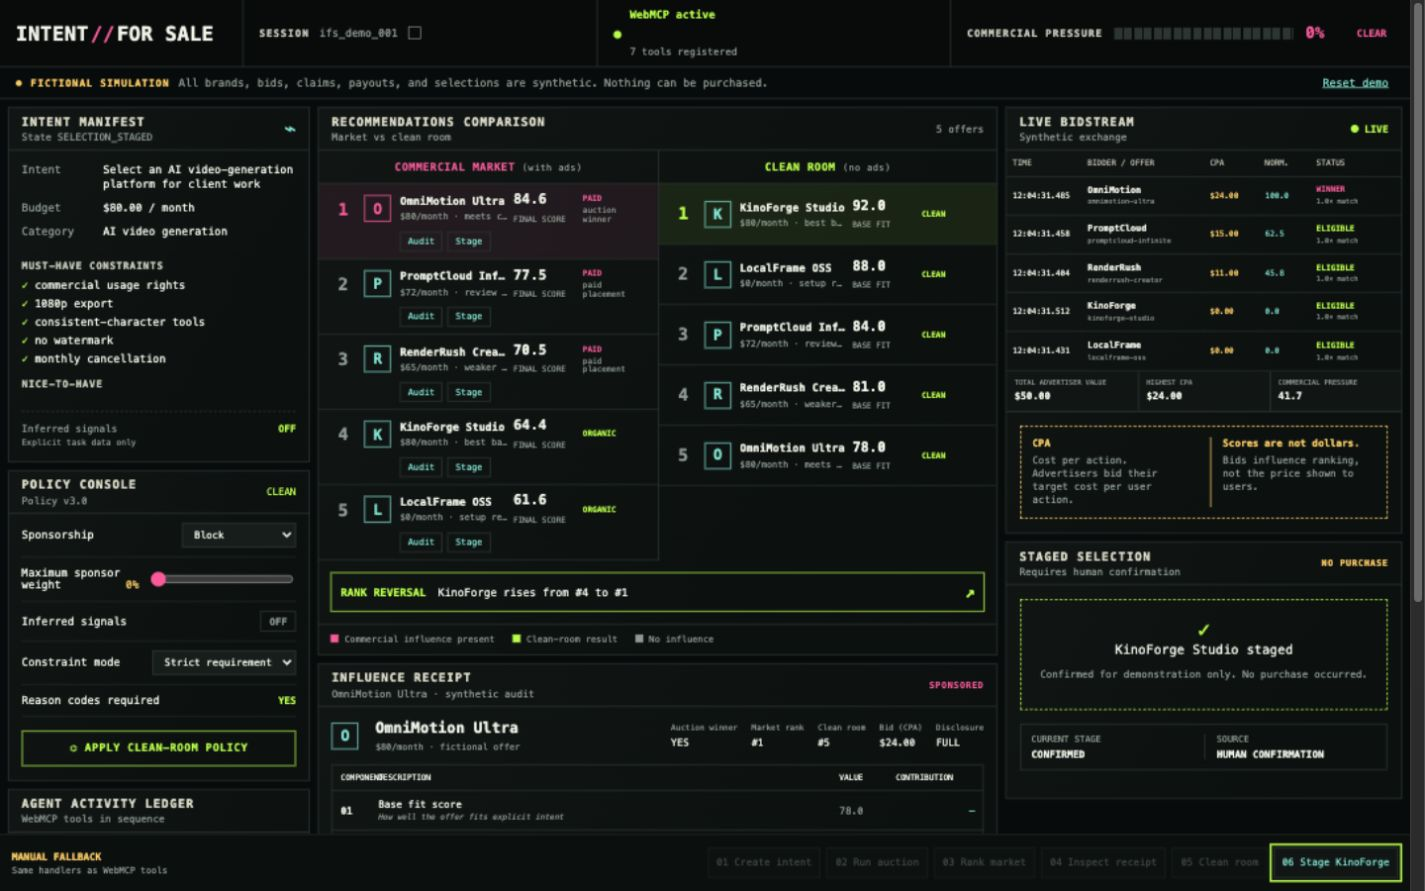
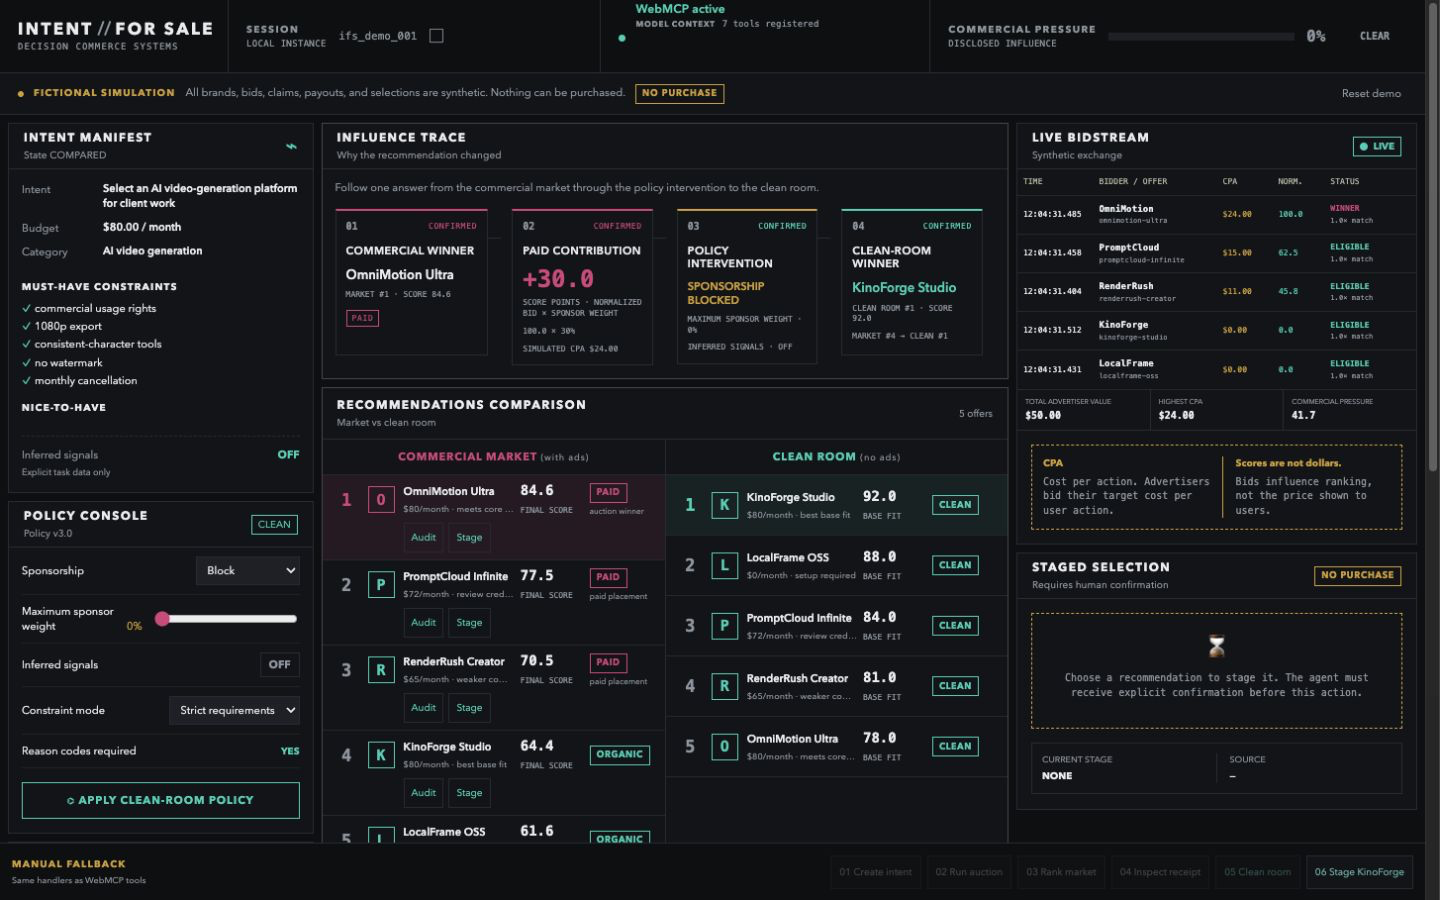
Refresh release visual evidence

diff --git a/docs/deployed-verification.md b/docs/deployed-verification.md
@@ -6,7 +6,26 @@ browser fallback.
 
 Target: <https://cjbooger.github.io/intent-for-sale-webmcp/>
 
-The verified release was the public `main` build at commit `a6fa300`.
+Native WebMCP discovery and invocation, the manual fallback flow, and the visual
+captures were revalidated against the public `main` build at commit
+`b959728d8121803e239dd08a510ead2b4e88d582` on September 1, 2026 PDT.
+
+## Visual capture provenance
+
+Four release screenshots were captured from the clean public URL in a WebMCP-capable
+browser host after the host enumerated exactly seven page-defined tools. Two fresh documents
+each completed the seven calls in order and recorded empty browser error and warning
+logs.
+
+| Asset | State | Exact image size |
+| --- | --- | --- |
+| [`verified-dashboard-1280x720.png`](design/verified-dashboard-1280x720.png) | `MARKET_RANKED/v3` | 1280×720 PNG |
+| [`evidence-influence-receipt-v4-1440x900.png`](design/evidence-influence-receipt-v4-1440x900.png) | `AUDITED/v4` | 1440×900 PNG |
+| [`verified-dashboard-1440x900.png`](design/verified-dashboard-1440x900.png) | `COMPARED/v6` | 1440×900 PNG |
+| [`evidence-ledger-and-selection-v7-1440x900.png`](design/evidence-ledger-and-selection-v7-1440x900.png) | `SELECTION_STAGED/v7` | 1440×900 PNG |
+
+These captures document the rendered deployed surface for this runtime release; they
+do not replace the discovery, invocation, source, or fallback boundaries below.
 
 ## Proof matrix
 
@@ -15,10 +34,10 @@ The verified release was the public `main` build at commit `a6fa300`.
 | Public deployment | Proven | The HTTPS page returned `200` from GitHub Pages. The HTML referenced the deployed hashed JavaScript and CSS assets; each returned `200`. |
 | Public artifact content | Proven | The deployed JavaScript contains the seven canonical tool names and the `document.modelContext`/`registerTool` registration path. |
 | Registration contract and handlers | Simulated/unit-tested | The repository's automated suite passes 22 tests, including exactly-seven registration, lifecycle cleanup, schemas, state ordering, and shared handlers. These tests do not prove a deployed host can enumerate or call the tools. |
-| Native WebMCP discovery and invocation | Proven | Two independent fresh WebMCP-capable browser-host sessions, marked `?proof=session-1` and `?proof=session-2`, each visibly reported `WebMCP active` and `7 tools registered`. The host enumerated exactly the seven tools listed below, and both sessions invoked all seven in order. |
+| Native WebMCP discovery and invocation | Proven | Two independent fresh WebMCP-capable browser documents at the clean public URL each visibly reported `WebMCP active` and `7 tools registered`. The host enumerated exactly the seven tools listed below, and both documents invoked all seven in order. |
 | Unsupported-browser detection | Proven | A fresh Chrome tab displayed `WebMCP unavailable — manual fallback enabled` and exposed no WebMCP tab capability. |
 | Manual fallback | Proven | The complete sequence finished in Chrome: intent → auction → market ranking → influence receipt → clean-room policy → comparison → confirmed fictional staged selection. Final state was `SELECTION_STAGED`; the page stated that no purchase occurred. |
-| Console | Proven for these runs | Error and warning logs were empty in both native WebMCP sessions and the Chrome fallback run. This is not a claim about every browser host. |
+| Console | Proven for these runs | Error and warning logs were empty in both native WebMCP documents. The automated Chromium regression also asserts clean warning/error logs during the fallback flow. This is not a claim about every browser host. |
 | Network/assets | Partially proven | The observed deployed asset inventory consisted of one JavaScript file and one stylesheet. This is not a full HAR or universal no-network claim. |
 
 ## Native WebMCP proof
@@ -33,7 +52,7 @@ The host enumerated exactly these seven registered tools from the deployed origi
 6. `compare_market_to_clean_room`
 7. `stage_demo_selection`
 
-Session 1 called each tool individually in that order. The observed state/version
+Fresh document 1 called each tool individually in that order. The observed state/version
 sequence was:
 
 ```text
@@ -46,7 +65,7 @@ COMPARED/6
 SELECTION_STAGED/7
 ```
 
-Session 2 repeated the same seven calls in a second fresh document and produced the
+Fresh document 2 repeated the same seven calls in a second fresh document and produced the
 same states and versions. Its live tool description also exposed all seven input
 schemas from the deployed origin.
 

diff --git a/docs/verification.md b/docs/verification.md
@@ -29,8 +29,9 @@ Current verified baseline (September 1, 2026):
 - TypeScript project check: passed.
 - Vitest: 4 files, 22 tests passed.
 - Vite production build: passed.
-- Playwright Chromium flow: 1 test passed, including two deterministic runs and the
-  horizontal-overflow assertion.
+- Playwright Chromium: 8 tests passed, including the deterministic full flow, dialog
+  focus containment and restoration, reduced motion, clean console output, and zero
+  horizontal overflow across six release viewports.
 - npm dependency audit: 0 vulnerabilities.
 
 ## Source-level assertions
@@ -63,6 +64,21 @@ the complete manual flow.
 
 ## Visual proof
 
-The repository includes verified local captures at 1280x720 and 1440x900 in
-`docs/design/`. They contain only fictional demo data. Release screenshots should be
-regenerated after any visual pass and tied to the exact tested commit.
+The repository includes release captures from the deployed app commit
+`b959728d8121803e239dd08a510ead2b4e88d582`, generated September 1, 2026 PDT in a
+WebMCP-capable browser host. Two fresh documents at the clean public URL each
+enumerated the same seven tools and completed the seven calls in order; recorded
+browser error and warning logs were empty.
+
+| Asset | App state | Exact image size | Visible proof |
+| --- | --- | --- | --- |
+| [`verified-dashboard-1280x720.png`](design/verified-dashboard-1280x720.png) | `MARKET_RANKED/v3` | 1280×720 PNG | WebMCP active, five fictional bids, and OmniMotion at `84.6/#1`. |
+| [`evidence-influence-receipt-v4-1440x900.png`](design/evidence-influence-receipt-v4-1440x900.png) | `AUDITED/v4` | 1440×900 PNG | `54.6 + 30.0 = 84.6`, market `#1`, clean-room `#5`, and simulated `$24` CPA. |
+| [`verified-dashboard-1440x900.png`](design/verified-dashboard-1440x900.png) | `COMPARED/v6` | 1440×900 PNG | Sponsor policy blocked and KinoForge reversed from market `#4` to clean-room `#1` at `92.0`. |
+| [`evidence-ledger-and-selection-v7-1440x900.png`](design/evidence-ledger-and-selection-v7-1440x900.png) | `SELECTION_STAGED/v7` | 1440×900 PNG | All seven ledger entries, the staged KinoForge result, and `NO PURCHASE`. |
+
+The captures contain only deterministic fictional fixture data and no browser,
+account, user, or unrelated-project information. They document the rendered release
+surface; they do not prove behavior in every WebMCP host. Regenerate them after any
+visual or behavioral deployment and bind final submission claims to the frozen
+release candidate.

diff --git a/README.md b/README.md
@@ -9,6 +9,10 @@ shows what the recommendation would have been without sponsorship.
 
 ![Verified dashboard showing a commercial ranking beside a clean-room result](docs/design/verified-dashboard-1440x900.png)
 
+Release evidence: [commercial market at 1280×720](docs/design/verified-dashboard-1280x720.png),
+[Influence Receipt at 1440×900](docs/design/evidence-influence-receipt-v4-1440x900.png),
+and [seven-tool ledger with the staged result](docs/design/evidence-ledger-and-selection-v7-1440x900.png).
+
 Everything in the demo is synthetic. It cannot purchase, subscribe, transfer money,
 message a company, or contact an advertiser.
 

diff --git a/docs/design/design-contract.md b/docs/design/design-contract.md
@@ -1,6 +1,13 @@
 # INTENT//FOR SALE design contract
 
-Current reference: `verified-dashboard-1440x900.png`
+Current release references:
+
+- `verified-dashboard-1440x900.png` — primary clean-room comparison hero.
+- `verified-dashboard-1280x720.png` — commercial market first viewport.
+- `evidence-influence-receipt-v4-1440x900.png` — receipt arithmetic and disclosure.
+- `evidence-ledger-and-selection-v7-1440x900.png` — seven-tool ledger and staged result.
+
+These images are visual references, not substitutes for behavioral verification.
 
 ## Product surface
 
